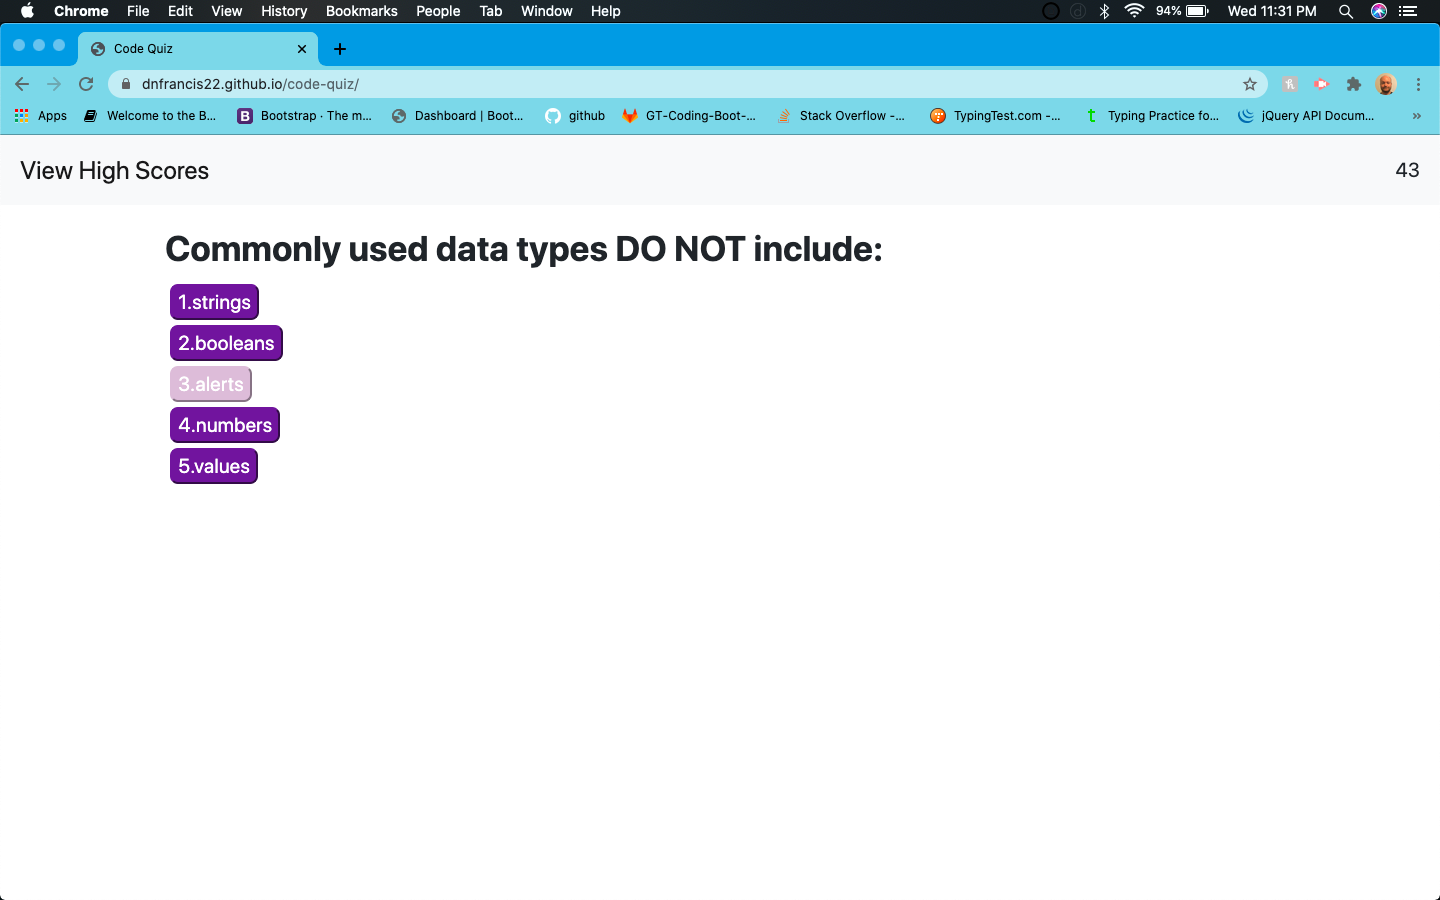
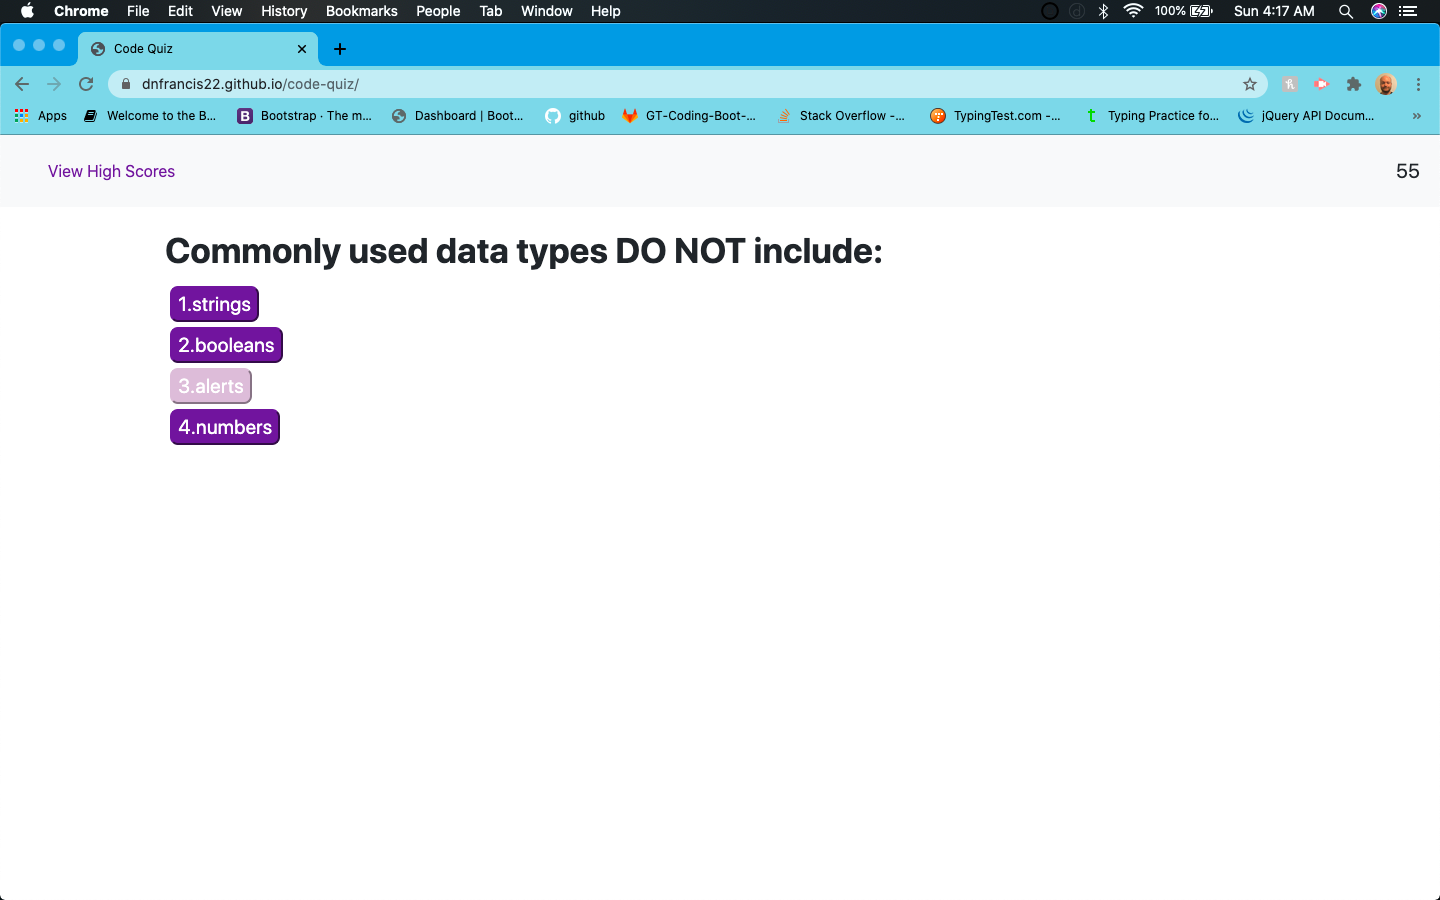
updated the readme to reflect most recent fix to the script.js file

diff --git a/README.md b/README.md
@@ -34,8 +34,7 @@ When you click on the answers you are alerted if you are correct or not and the 
 ![answerQuestion-2](./assets/img-3.png)
 
 
-When you have answered all of the questions or the timer runs out, The high score page will load. On the high score page you can enter your initials, clear them out or click the Go back button to play again.
-
+When you have answered all of the questions or the timer runs out, The score page will load. You are presented with your score. You can enter your initials and click submit. this will take you back to the start of the game.
 
 ![highScore](./assets/img-4.png)
 
